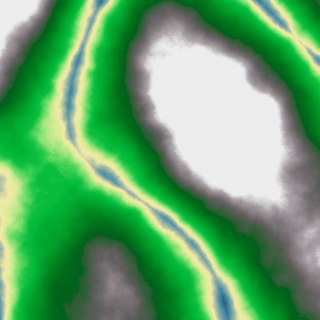
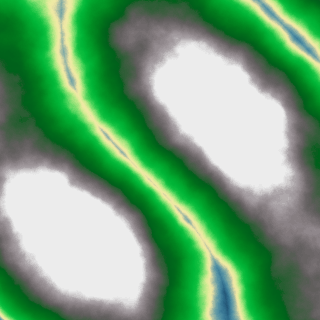
Fixed fog, removed skyox rotation

diff --git a/core/src/utils/EnvironmentCubeMap.java b/core/src/utils/EnvironmentCubeMap.java
@@ -132,11 +132,16 @@ public class EnvironmentCubeMap implements Disposable{
         q = new Quaternion();
         
         initCubemap();
-    } 
+    }
+    
+    public void reset() {
+        worldTrans = new Matrix4();  
+        q = new Quaternion();
+    }
 
     private void initCubemap(){
         // Bind cube map
-        Gdx.gl20.glBindTexture(GL20.GL_TEXTURE_CUBE_MAP, 0);
+        Gdx.gl20.glBindTexture(GL20.GL_TEXTURE_CUBE_MAP, 1);
         Gdx.gl20.glTexImage2D(GL20.GL_TEXTURE_CUBE_MAP_POSITIVE_X, 0, GL20.GL_RGB, data[0].getWidth(), data[0].getHeight(), 0, GL20.GL_RGB, GL20.GL_UNSIGNED_BYTE, data[0].getPixels());
         Gdx.gl20.glTexImage2D(GL20.GL_TEXTURE_CUBE_MAP_NEGATIVE_X, 0, GL20.GL_RGB, data[1].getWidth(), data[1].getHeight(), 0, GL20.GL_RGB, GL20.GL_UNSIGNED_BYTE, data[1].getPixels());
 
@@ -159,12 +164,12 @@ public class EnvironmentCubeMap implements Disposable{
 
     public void render(Camera camera) {
         worldTrans.idt();
-        camera.view.getRotation( q, true );
+        camera.view.getRotation(q, true);
         q.conjugate();
         worldTrans.rotate(q);
-        rotation += (rotationSpeed * Gdx.graphics.getDeltaTime());
-        rotation %= 360;
-        worldTrans.rotate(Vector3.Y, rotation);
+//        rotation += (rotationSpeed * Gdx.graphics.getDeltaTime());
+//        rotation %= 360;
+//        worldTrans.rotate(Vector3.Y, rotation);
 
         shader.begin();     
         shader.setUniformMatrix(u_worldTrans, worldTrans.translate(0, 0, -1));
